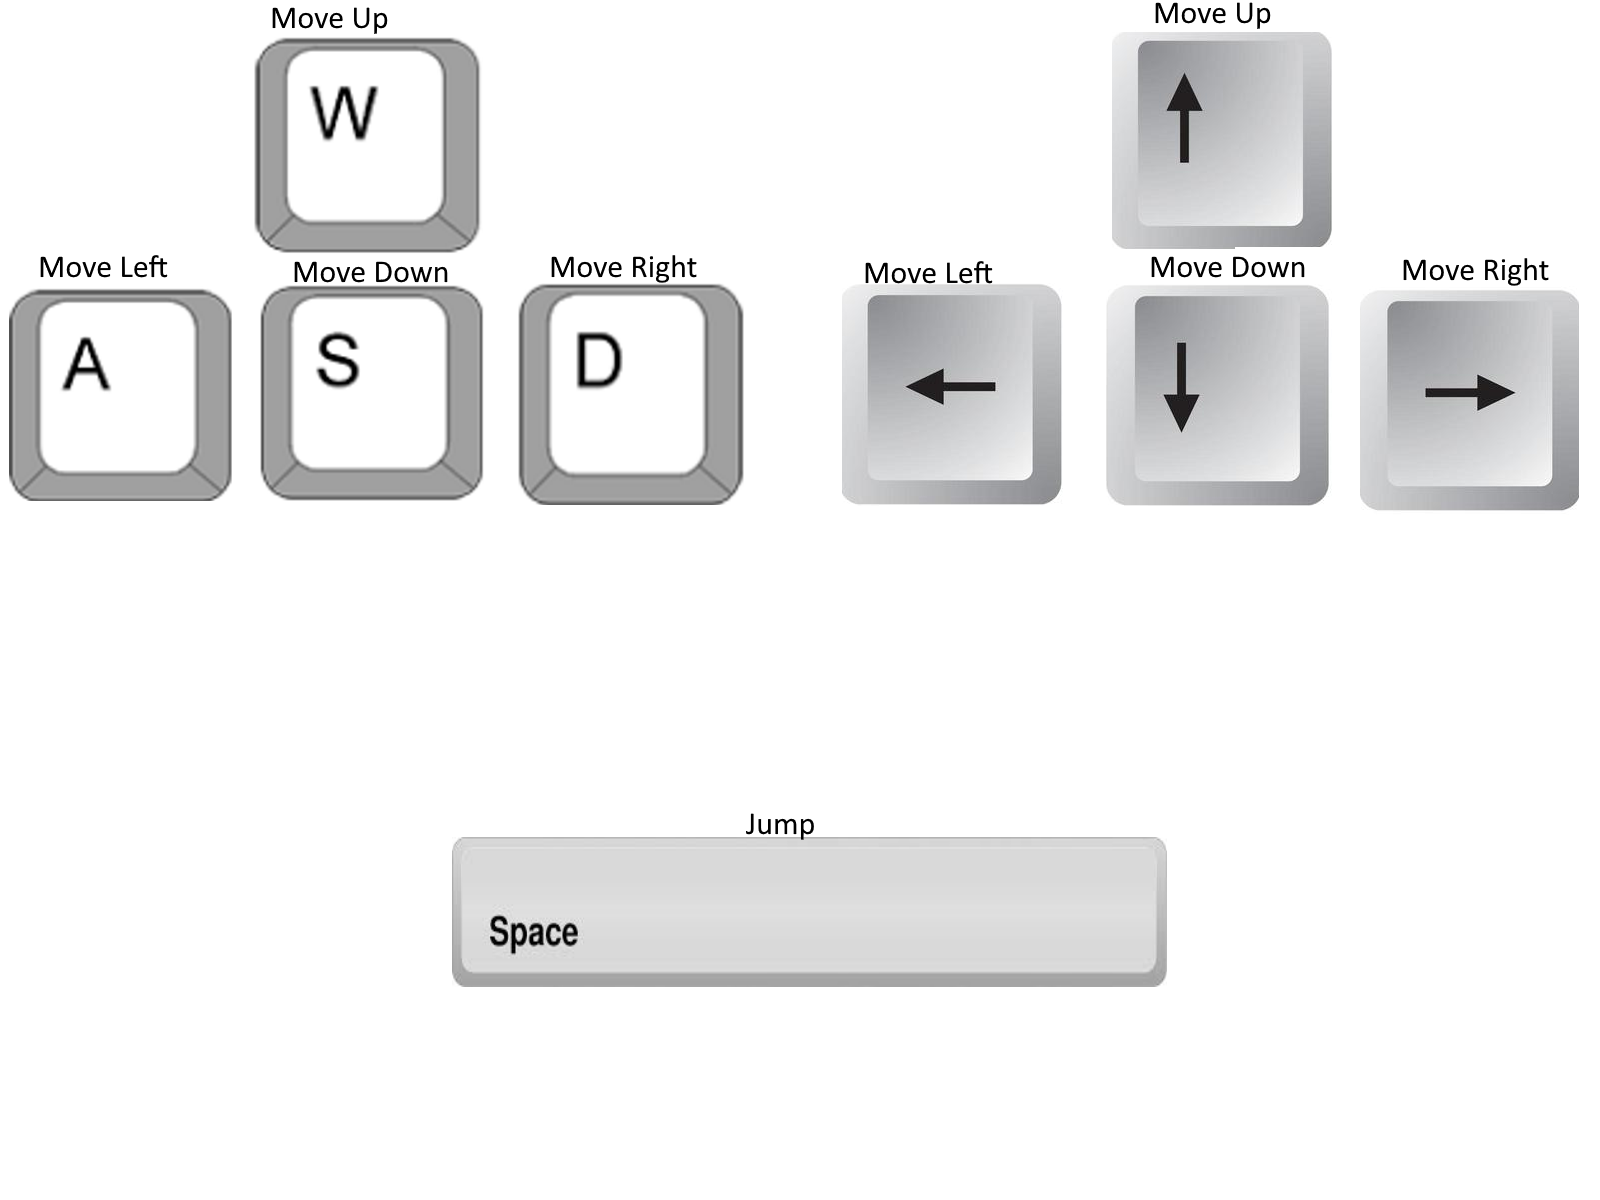
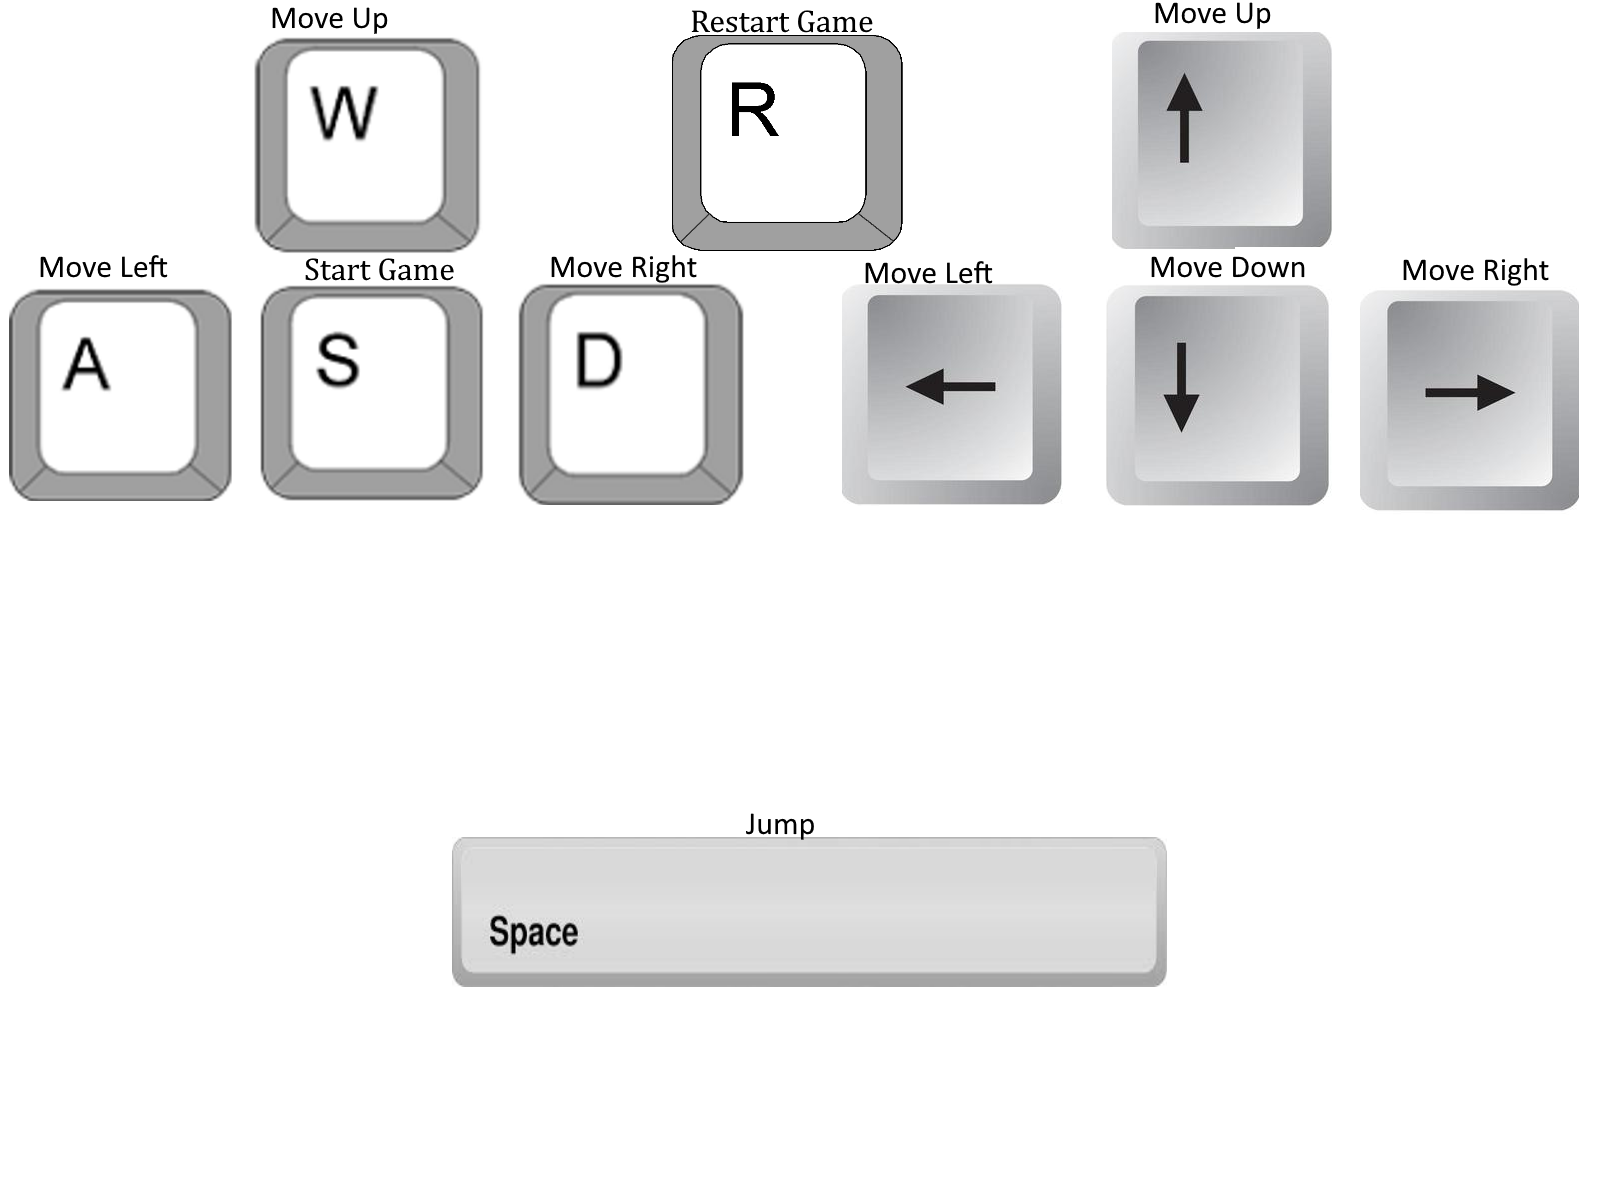
updates

Changed region(s): [[0.4062, 0.0, 0.5625, 0.2158], [0.1875, 0.2158, 0.2812, 0.2467]]

diff --git a/Feature 1/src/HelpScreen.js b/Feature 1/src/HelpScreen.js
@@ -66,7 +66,9 @@ highLightS()
   gameNs.ctx.stroke();
 }
 
-highLightD()
+
+
+highLightR()
 {
   gameNs.ctx.clearRect(0,0,mycanvas.width, mycanvas.height)
   gameNs.ctx.beginPath();
@@ -78,6 +80,16 @@ highLightD()
   gameNs.ctx.rect(1070,560,125,145);
   gameNs.ctx.lineWidth="6";
   gameNs.ctx.strokeStyle = "green";
+  gameNs.ctx.stroke();
+}
+
+highlightR()
+{
+  gameNs.ctx.clearRect(0,0,mycanvas.width, mycanvas.height)
+  gameNs.ctx.beginPath();
+  gameNs.ctx.rect(670,410,125,145);
+  gameNs.ctx.lineWidth="6";
+  gameNs.ctx.strokeStyle = "red";
   gameNs.ctx.stroke();
 }
 
@@ -93,8 +105,8 @@ highLightSpace()
 
   update()
   {
-    var canvas = document.getElementById('gameCanvas');
-    var ctx = canvas.getContext('2d');
+    var canvas = document.getElementById('mycanvas');
+    var ctx = mycanvas.getContext('2d');
   }
 
   render()

diff --git a/Feature 1/demo/main.js b/Feature 1/demo/main.js
@@ -50,6 +50,10 @@ function keyHandler(e)
   {
     gameNs.helpScreen.highLightD()
   }
+  else if(e.keyCode === 82)
+  {
+    gameNs.helpScreen.highLightR()
+  }
   else if(e.keyCode === 32)
   {
     gameNs.helpScreen.highLightSpace()
